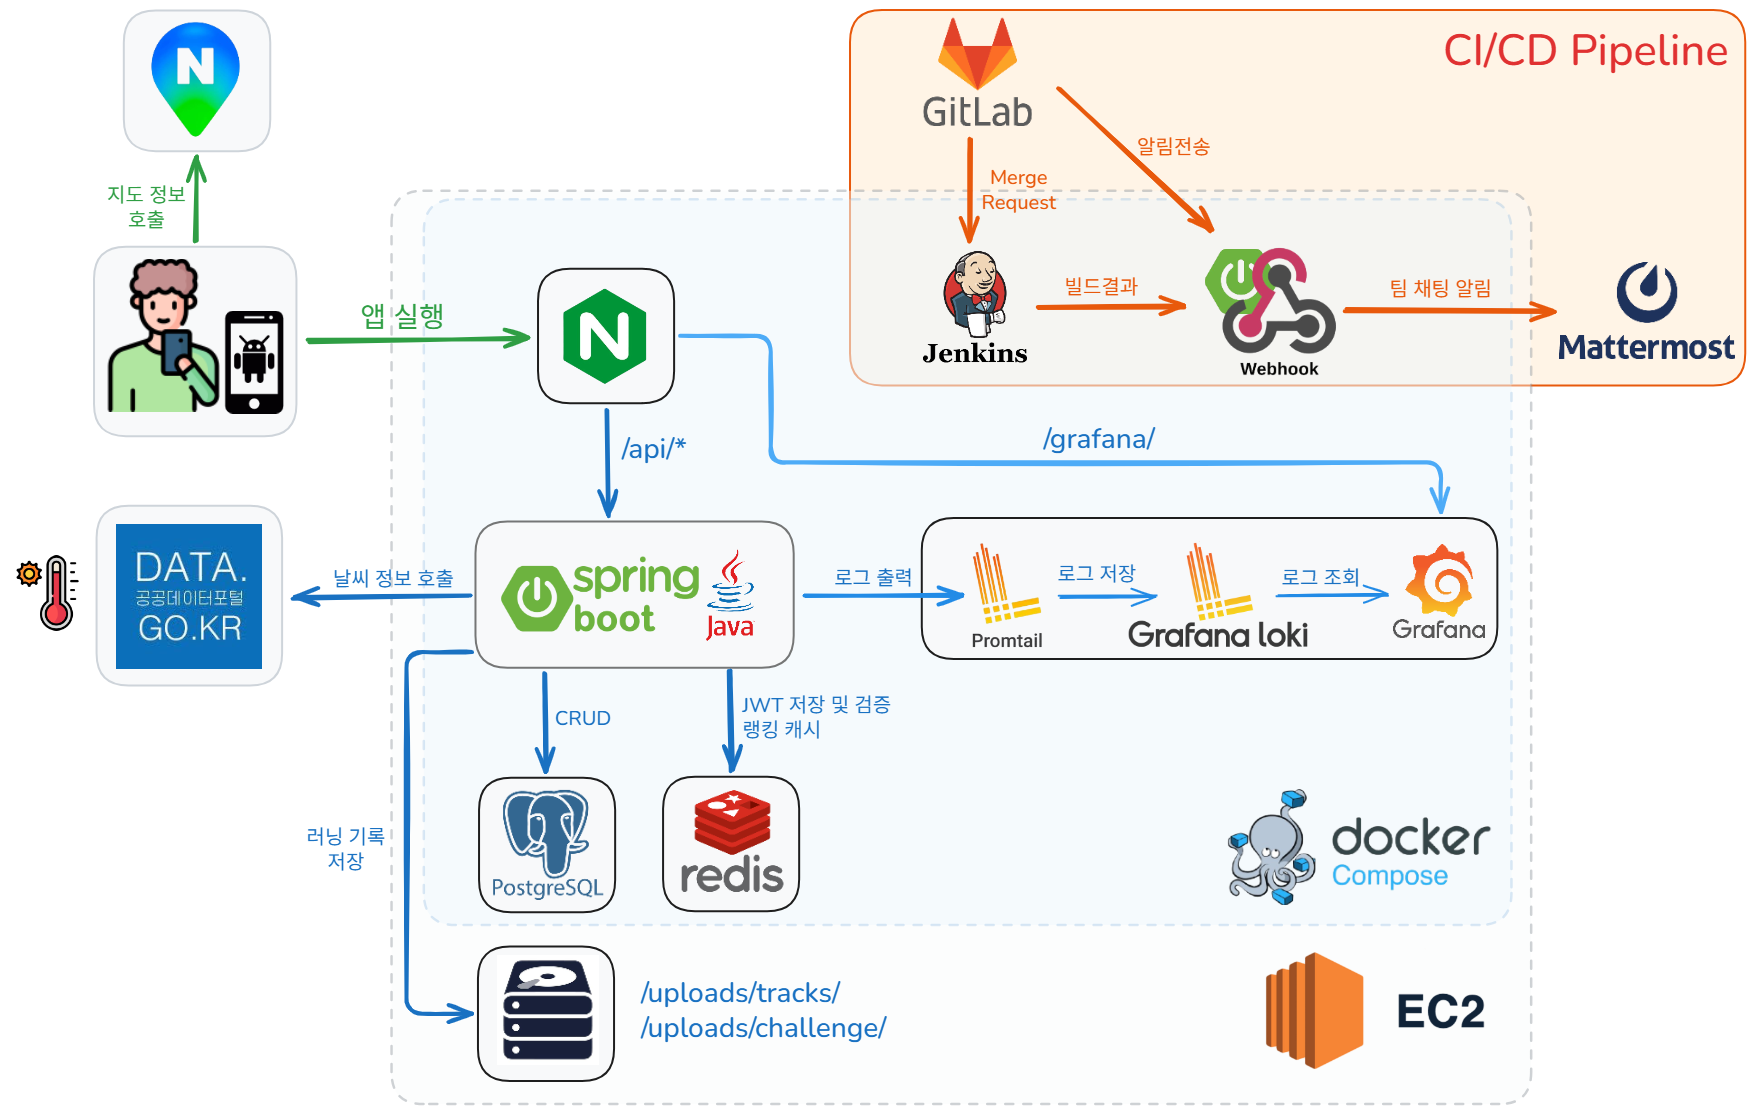
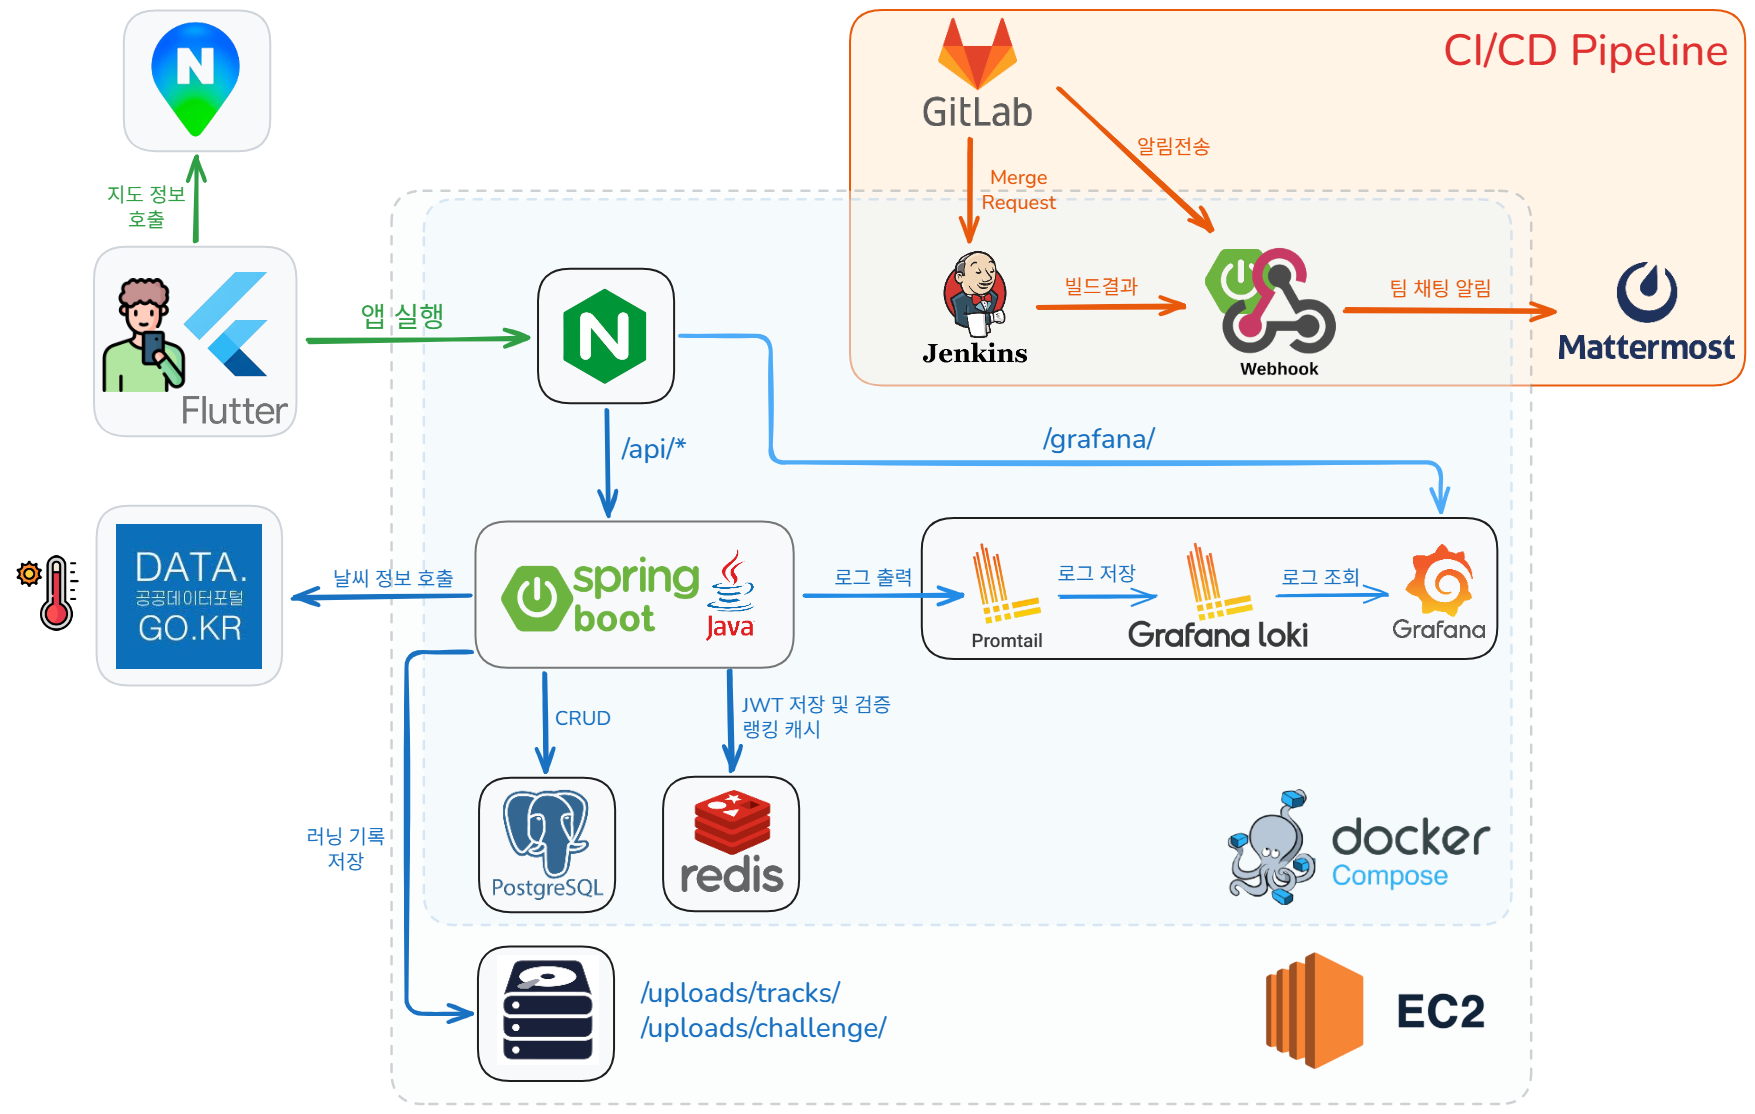
S14P31A103-549 docs: 링크 삭제 및 아키텍쳐 이미지 수정

Changed region(s): [[0.0615, 0.2136, 0.1846, 0.3968]]

diff --git a/README.md b/README.md
@@ -10,9 +10,6 @@ SSAFY 14기 자율 프로젝트 | S14P31A103
 
 AI가 생성한 그림 모양의 경로를 실제로 달리며 완성하고, 내 경로와 목표 경로의 유사도를 점수로 확인하는 **러닝 챌린지 서비스**입니다.
 
-- **배포 URL**: https://k14a103.p.ssafy.io
-- **API 문서 (Swagger)**: https://k14a103.p.ssafy.io/api/swagger-ui/index.html
-
 ---
 
 ## 👥 팀원
